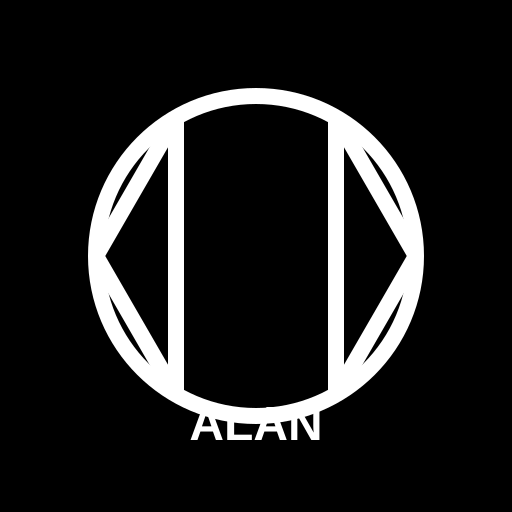
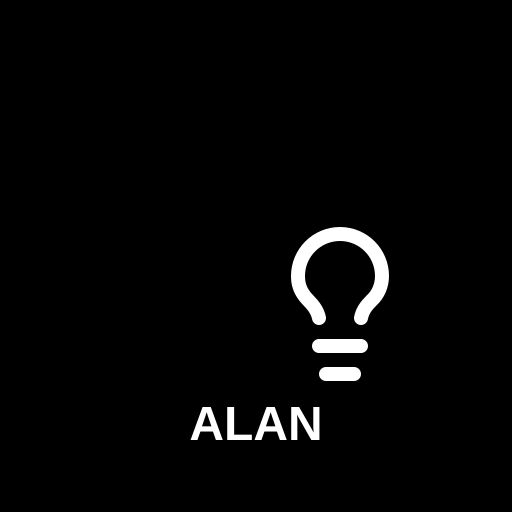
feat: enhance UX with multiple improvements
- Allow authors to edit their own ratings
- Improve author name display (larger, more visible)
- Fix observation modal width (remove max-w-sm constraint)
- Disable page zoom (user-scalable=no) while keeping map zoom
- Update PWA icon from camera aperture to lightbulb
- Add dark/night mode support for map tiles (CartoDB dark tiles)
- Add red filter to map tiles in night mode
- Reorganize rating/report sections to support author rating changes

Changed region(s): [[0.1562, 0.1562, 0.8438, 0.8438]]

diff --git a/src/components/map.tsx b/src/components/map.tsx
@@ -60,6 +60,7 @@ function MapComponent() {
   const { t } = useLanguage();
   const mapContainerRef = useRef<HTMLDivElement>(null);
   const mapRef = useRef<L.Map | null>(null);
+  const tileLayerRef = useRef<L.TileLayer | null>(null);
   const markersRef = useRef<L.Marker[]>([]);
   const [isClient, setIsClient] = useState(false);
   const [observations, setObservations] = useState<Observation[]>([]);
@@ -70,6 +71,31 @@ function MapComponent() {
     setIsClient(true);
   }, []);
 
+  // Get tile layer based on theme
+  const getTileLayer = (theme: string) => {
+    if (theme === 'light') {
+      // Light mode: standard OpenStreetMap
+      return L.tileLayer('https://{s}.tile.openstreetmap.org/{z}/{x}/{y}.png', {
+        attribution: '&copy; <a href="https://www.openstreetmap.org/copyright">OpenStreetMap</a> contributors',
+      });
+    } else if (theme === 'night') {
+      // Night mode: Dark red-tinted tiles
+      return L.tileLayer('https://{s}.basemaps.cartocdn.com/dark_all/{z}/{x}/{y}{r}.png', {
+        attribution: '&copy; <a href="https://www.openstreetmap.org/copyright">OpenStreetMap</a> &copy; <a href="https://carto.com/attributions">CARTO</a>',
+        subdomains: 'abcd',
+        maxZoom: 20,
+        className: 'map-tiles-night',
+      });
+    } else {
+      // Dark mode: Dark tiles
+      return L.tileLayer('https://{s}.basemaps.cartocdn.com/dark_all/{z}/{x}/{y}{r}.png', {
+        attribution: '&copy; <a href="https://www.openstreetmap.org/copyright">OpenStreetMap</a> &copy; <a href="https://carto.com/attributions">CARTO</a>',
+        subdomains: 'abcd',
+        maxZoom: 20,
+      });
+    }
+  };
+
   // Initialize map
   useEffect(() => {
     if (isClient && mapContainerRef.current && !mapRef.current) {
@@ -78,9 +104,11 @@ function MapComponent() {
       }).setView([51.505, -0.09], 13); // Default view
       mapRef.current = map;
 
-      L.tileLayer('https://{s}.tile.openstreetmap.org/{z}/{x}/{y}.png', {
-        attribution: '&copy; <a href="https://www.openstreetmap.org/copyright">OpenStreetMap</a> contributors',
-      }).addTo(map);
+      // Get initial theme and add appropriate tile layer
+      const initialTheme = localStorage.getItem('theme') || 'dark';
+      const tileLayer = getTileLayer(initialTheme);
+      tileLayer.addTo(map);
+      tileLayerRef.current = tileLayer;
 
       // Get user's current location
       if (navigator.geolocation) {
@@ -95,6 +123,34 @@ function MapComponent() {
         );
       }
     }
+  }, [isClient]);
+
+  // Watch for theme changes and update map tiles
+  useEffect(() => {
+    if (!mapRef.current || !isClient) return;
+
+    const handleThemeChange = () => {
+      const currentTheme = document.documentElement.className || localStorage.getItem('theme') || 'dark';
+
+      if (tileLayerRef.current) {
+        mapRef.current?.removeLayer(tileLayerRef.current);
+      }
+
+      const newTileLayer = getTileLayer(currentTheme);
+      newTileLayer.addTo(mapRef.current!);
+      tileLayerRef.current = newTileLayer;
+    };
+
+    // Create a MutationObserver to watch for class changes on documentElement
+    const observer = new MutationObserver(handleThemeChange);
+    observer.observe(document.documentElement, {
+      attributes: true,
+      attributeFilter: ['class'],
+    });
+
+    return () => {
+      observer.disconnect();
+    };
   }, [isClient]);
 
   // Load observations

diff --git a/src/components/observation-popup.tsx b/src/components/observation-popup.tsx
@@ -200,7 +200,7 @@ export function ObservationPopup({ observation, onRatingAdded, onReported, onDel
   };
 
   return (
-    <div className="w-full max-w-sm">
+    <div className="w-full">
       {/* Image */}
       <div className="relative w-full h-64 sm:h-80 bg-muted rounded-t-lg overflow-hidden flex items-center justify-center">
         <img
@@ -286,8 +286,9 @@ export function ObservationPopup({ observation, onRatingAdded, onReported, onDel
 
         {/* Author */}
         {authorName && (
-          <div className="text-xs text-muted-foreground">
-            {t('by')} {authorName}
+          <div className="flex items-center gap-2 text-sm font-medium text-foreground">
+            <span className="text-muted-foreground">{t('by')}</span>
+            <span>{authorName}</span>
           </div>
         )}
 
@@ -325,8 +326,8 @@ export function ObservationPopup({ observation, onRatingAdded, onReported, onDel
           </div>
         )}
 
-        {/* Actions (only for non-authors) */}
-        {!isAuthor && user && (
+        {/* Rating actions (for everyone including author) */}
+        {user && !showDeleteConfirm && (
           <div className="space-y-2 pt-2 border-t">
             {userHasRated && !showRatingForm && !showReportForm && (
               <div className="text-xs text-muted-foreground">
@@ -347,15 +348,17 @@ export function ObservationPopup({ observation, onRatingAdded, onReported, onDel
                   <Star className="h-4 w-4 mr-1" />
                   {userHasRated ? t('changeRating') : t('rate')}
                 </Button>
-                <Button
-                  size="sm"
-                  variant="outline"
-                  className="flex-1"
-                  onClick={() => setShowReportForm(true)}
-                >
-                  <Flag className="h-4 w-4 mr-1" />
-                  {t('reportBtn')}
-                </Button>
+                {!isAuthor && (
+                  <Button
+                    size="sm"
+                    variant="outline"
+                    className="flex-1"
+                    onClick={() => setShowReportForm(true)}
+                  >
+                    <Flag className="h-4 w-4 mr-1" />
+                    {t('reportBtn')}
+                  </Button>
+                )}
               </div>
             )}
 
@@ -404,8 +407,8 @@ export function ObservationPopup({ observation, onRatingAdded, onReported, onDel
               </div>
             )}
 
-            {/* Report Form */}
-            {showReportForm && (
+            {/* Report Form (only for non-authors) */}
+            {!isAuthor && showReportForm && (
               <div className="space-y-3">
                 <div className="text-sm font-medium">{t('reportThisObservation')}</div>
                 <Textarea
@@ -443,8 +446,8 @@ export function ObservationPopup({ observation, onRatingAdded, onReported, onDel
           </div>
         )}
 
-        {/* Author actions */}
-        {isAuthor && (
+        {/* Author delete action */}
+        {isAuthor && !showEditDescription && !showRatingForm && (
           <div className="space-y-2 pt-2 border-t">
             {!showDeleteConfirm ? (
               <>

diff --git a/src/app/layout.tsx b/src/app/layout.tsx
@@ -32,7 +32,7 @@ export default function RootLayout({
         <meta name="description" content="Upload, view, and discuss images of light pollution." />
 
         {/* Mobile & PWA Configuration */}
-        <meta name="viewport" content="width=device-width, initial-scale=1, maximum-scale=5, user-scalable=yes" />
+        <meta name="viewport" content="width=device-width, initial-scale=1, maximum-scale=1, user-scalable=no" />
         <meta name="mobile-web-app-capable" content="yes" />
         <meta name="apple-mobile-web-app-capable" content="yes" />
         <meta name="apple-mobile-web-app-status-bar-style" content="black-translucent" />

diff --git a/src/app/globals.css b/src/app/globals.css
@@ -126,3 +126,8 @@ body {
     @apply bg-background text-foreground;
   }
 }
+
+/* Map tiles styling for night mode */
+.night .map-tiles-night {
+  filter: sepia(100%) hue-rotate(-50deg) saturate(6) brightness(0.7);
+}
